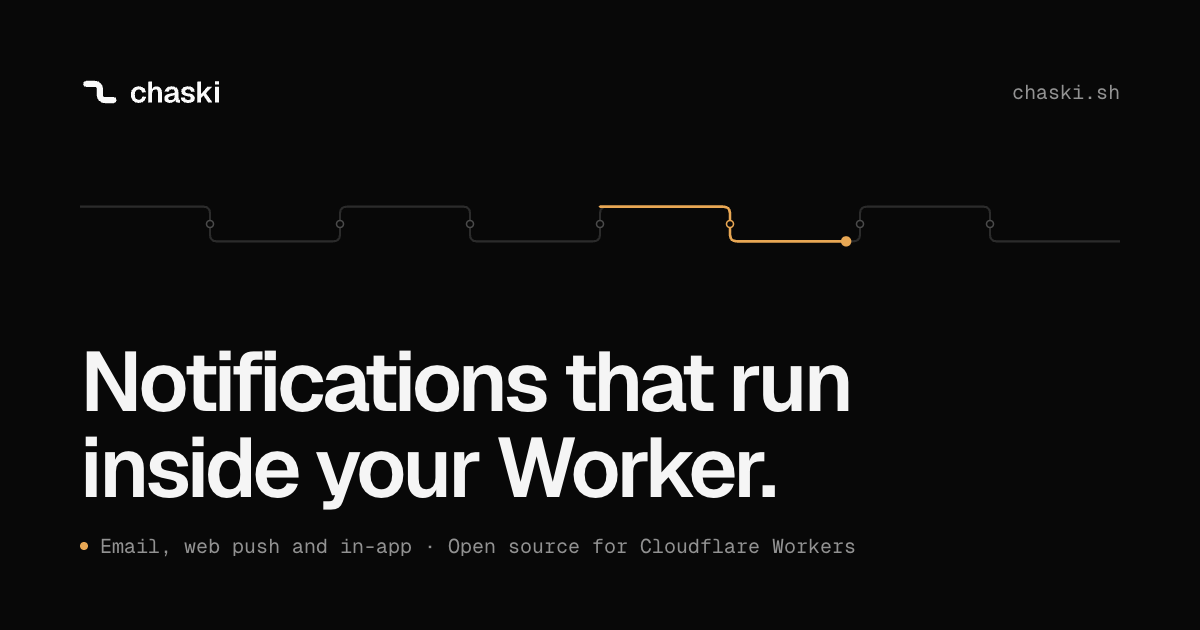
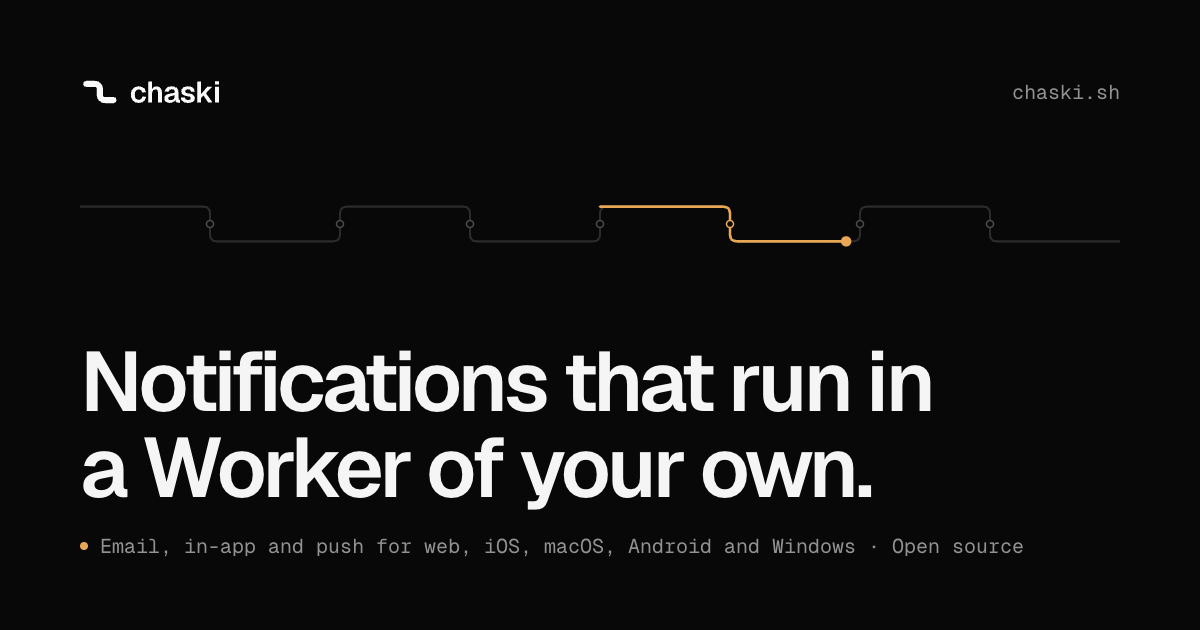
Show how Chaski runs as its own Worker on the landing (#42)

diff --git a/site/src/components/landing/features.tsx b/site/src/components/landing/features.tsx
@@ -1,6 +1,6 @@
 import { Link } from '@tanstack/react-router';
 import type { ReactNode } from 'react';
-import { ArrowRightIcon, BellIcon, GlobeIcon, MailIcon, PhoneIcon } from '../icons';
+import { ArrowRightIcon, BellIcon, GlobeIcon, MailIcon, MonitorIcon, PhoneIcon } from '../icons';
 import { Code, Liquid } from './code';
 import { rpcSample } from './samples';
 import { StatusPill } from './status';
@@ -80,6 +80,20 @@ const CHANNELS = [
     time: '410 ms',
   },
   {
+    icon: <PhoneIcon size={20} strokeWidth={1.5} />,
+    name: 'FCM',
+    via: 'Android',
+    status: 'Sent',
+    time: '450 ms',
+  },
+  {
+    icon: <MonitorIcon size={20} strokeWidth={1.5} />,
+    name: 'WNS',
+    via: 'Windows',
+    status: 'Sent',
+    time: '520 ms',
+  },
+  {
     icon: <BellIcon size={20} strokeWidth={1.5} />,
     name: 'In-app',
     via: 'A live feed per user',
@@ -88,9 +102,25 @@ const CHANNELS = [
   },
 ];
 
+// Rules between the tiles: two columns on phones, three from `sm` up.
+const PHONE_RULES = ['pr-5', 'border-l pl-5'];
+const WIDE_RULES = [
+  'sm:border-l-0 sm:pl-0 sm:pr-5',
+  'sm:border-l sm:pl-5 sm:pr-5',
+  'sm:border-l sm:pl-5 sm:pr-0',
+];
+const LIFT_DELAYS = [
+  '',
+  'delay-[40ms]',
+  'delay-[80ms]',
+  'delay-[120ms]',
+  'delay-[160ms]',
+  'delay-[200ms]',
+];
+
 const ChannelsDetail = () => (
   <ul
-    className="-mt-2 grid grid-cols-2 border-b border-border sm:grid-cols-4"
+    className="-mt-2 grid grid-cols-2 border-b border-border sm:grid-cols-3"
     aria-label="Channels"
   >
     {CHANNELS.map((channel, index) => (
@@ -98,14 +128,14 @@ const ChannelsDetail = () => (
         key={channel.name}
         className={[
           'flex flex-col gap-3.5 border-border py-6',
-          index % 2 === 1 ? 'border-l pl-5' : 'pr-5',
+          PHONE_RULES[index % 2],
+          WIDE_RULES[index % 3],
           index >= 2 ? 'max-sm:border-t' : '',
-          index === 2 ? 'sm:border-l sm:pl-5' : '',
-          index === 1 || index === 2 ? 'sm:pr-5' : '',
+          index >= 3 ? 'sm:border-t' : '',
         ].join(' ')}
       >
         <span
-          className={`w-max motion-safe:transition-transform motion-safe:duration-300 motion-safe:group-hover:-translate-y-0.5 ${['', 'delay-[40ms]', 'delay-[80ms]', 'delay-[120ms]'][index]}`}
+          className={`w-max motion-safe:transition-transform motion-safe:duration-300 motion-safe:group-hover:-translate-y-0.5 ${LIFT_DELAYS[index]}`}
         >
           {channel.icon}
         </span>
@@ -319,7 +349,7 @@ export const Features = () => (
 
     <div className="grid gap-px overflow-hidden rounded-2xl border border-border bg-border md:grid-cols-2 lg:grid-cols-3">
       <Cell
-        title="Four channels, one call"
+        title="Six channels, one call"
         guide="channels"
         text="Each type picks its channels. Chaski renders every one, queues it and records what happened, per recipient."
         className="md:col-span-2"
@@ -335,7 +365,7 @@ export const Features = () => (
       <Cell
         title="Liquid templates"
         guide="templates"
-        text="One per channel, edited in the dashboard with a live preview. Export them as JSON and import them anywhere."
+        text="One per type, with content for each channel, edited in the dashboard with a live preview. Keep them in a file and load them into any environment."
         delay="[--reveal-delay:70ms]"
       >
         <TemplateDetail />

diff --git a/site/src/components/landing/how-it-works.tsx b/site/src/components/landing/how-it-works.tsx
@@ -1,26 +1,26 @@
 import { type KeyboardEvent, useEffect, useRef, useState } from 'react';
 import { useInViewAttribute, useMotionAllowed } from '~/lib/motion';
 import { highlight } from './code';
-import { billingSample, indexSample, wranglerSample } from './samples';
+import { appSample, deploySample, initSample } from './samples';
 
 const FILES = [
-  { id: 'wrangler', name: 'chaski/wrangler.jsonc', code: wranglerSample },
-  { id: 'index', name: 'chaski/src/index.ts', code: indexSample },
-  { id: 'billing', name: 'app/src/billing.ts', code: billingSample },
+  { id: 'init', name: 'npx chaskijs init', code: initSample },
+  { id: 'deploy', name: 'npx chaskijs deploy', code: deploySample },
+  { id: 'app', name: 'app/src/index.ts', code: appSample },
 ];
 
 const STEPS = [
   {
-    title: 'Declare the bindings',
-    text: 'A database and a queue to start. Add the rest as you need it.',
+    title: 'Create it',
+    text: 'One command writes the project, three files in a folder of your repository or in a new one, ready to run locally.',
   },
   {
     title: 'Deploy it',
-    text: 'One line re-exports the Worker. Its dashboard opens for your team only, and the channels are set up there.',
+    text: 'It creates a database and a queue on your Cloudflare account, and deploys. Its dashboard opens for your team only, and the channels are set up there.',
   },
   {
-    title: 'Send from your app',
-    text: 'Bind your app to it, and one call fans out to email, push and the in-app feed, with retries.',
+    title: 'Connect your app',
+    text: 'Bind your app to it and mount the routes your frontend reads the feed through. Then one call fans out to email, push and the in-app feed, with retries.',
   },
 ];
 
@@ -44,6 +44,24 @@ export const HowItWorks = () => {
   useEffect(() => {
     if (motion) setActive(0);
   }, [motion]);
+
+  // On a phone the tab names overflow their bar. Scroll the bar alone, never the page, so the open
+  // tab reads whole while the steps above advance.
+  useEffect(() => {
+    const tab = tabs.current[active];
+    const bar = tab?.parentElement;
+    if (!tab || !bar) return;
+    const inset = Number.parseFloat(getComputedStyle(bar).paddingLeft);
+    const box = bar.getBoundingClientRect();
+    const { left, right } = tab.getBoundingClientRect();
+    const by =
+      left < box.left + inset
+        ? left - box.left - inset
+        : right > box.right - inset
+          ? right - box.right + inset
+          : 0;
+    if (by) bar.scrollBy({ left: by, behavior: motion ? 'smooth' : 'auto' });
+  }, [active, motion]);
 
   const choose = (index: number) => {
     setStopped(true);
@@ -72,7 +90,7 @@ export const HowItWorks = () => {
           Deploy it next to your app.
         </h2>
         <p className="lede">
-          Chaski is a Worker of its own, on your account. A project of three files deploys it, and
+          Chaski is a Worker of its own, on your account. Two commands create and deploy it, and
           your app sends to it from anywhere in its code.
         </p>
         <ol className="flex flex-col pt-5">

diff --git a/site/src/components/landing/samples.ts b/site/src/components/landing/samples.ts
@@ -4,55 +4,57 @@ export const sendSample = `await env.CHASKI.send({
   payload: { amount: '$15.00' },
 });`;
 
-export const wranglerSample = `{
-  "name": "chaski",
-  "main": "src/index.ts",
-  "d1_databases": [
-    {
-      "binding": "CHASKI_DB",
-      "database_name": "chaski",
-      "database_id": "<printed by wrangler d1 create>",
-      // Chaski's tables come from the package.
-      "migrations_dir": "node_modules/chaskijs/migrations"
-    }
-  ],
-  "queues": {
-    "producers": [
-      { "binding": "CHASKI_QUEUE", "queue": "chaski-deliveries" }
-    ],
-    "consumers": [
-      {
-        "queue": "chaski-deliveries",
-        "max_retries": 5,
-        "dead_letter_queue": "chaski-deliveries-dlq"
-      }
-    ]
-  },
-  "send_email": [{ "name": "CHASKI_EMAIL" }]
-}`;
+export const initSample = `$ npx chaskijs init
 
-export const indexSample = `// The whole Chaski Worker: the dashboard, the queue
-// consumer and the API your app calls.
-export {
-  ChaskiEntrypoint,
-  ChaskiEvents,
-  ChaskiFeed,
-  ChaskiScheduler,
-  default,
-} from 'chaskijs/worker';`;
+? Where should Chaski live?
+› A folder of this repository
+  A new repository
 
-export const billingSample = `// Bound to Chaski in wrangler.jsonc:
+✓ Wrote chaski/package.json
+✓ Wrote chaski/wrangler.jsonc
+✓ Wrote chaski/src/index.ts
+✓ Applied the migrations locally
+
+Next: npx chaskijs deploy`;
+
+export const deploySample = `$ npx chaskijs deploy
+
+✓ Created the database
+✓ Created the queues
+✓ Applied the migrations
+✓ Deployed chaski
+
+Your dashboard is at
+https://chaski.acme.workers.dev
+Set up the channels there.`;
+
+export const appSample = `// Bound in wrangler.jsonc:
 // { "binding": "CHASKI", "service": "chaski",
 //   "entrypoint": "ChaskiEntrypoint" }
-export const sendReceipt = async (env: Env, user: User, payment: Payment) => {
-  await env.CHASKI.send({
+import { Hono } from 'hono';
+import { userRoutes } from 'chaskijs';
+
+const app = new Hono<{ Bindings: Env }>();
+
+// The signed-in user's feed, devices and preferences.
+app.route(
+  '/me/notifications',
+  userRoutes({
+    chaski: (c) => c.env.CHASKI,
+    identify: (c) => currentUserId(c),
+  }),
+);
+
+app.post('/payments', async (c) => {
+  const payment = await charge(c);
+  await c.env.CHASKI.send({
     type: 'payment_received',
-    recipient: { id: user.id, email: user.email, name: user.name },
+    recipient: { id: payment.userId },
     payload: { amount: payment.amount },
-    // A retried request with the same key sends only once.
     idempotencyKey: \`payment:\${payment.id}\`,
   });
-};`;
+  return c.json(payment);
+});`;
 
 export const rpcSample = `await env.CHASKI.send({
   type: 'order_shipped',

diff --git a/site/src/components/landing/browser.tsx b/site/src/components/landing/browser.tsx
@@ -18,6 +18,7 @@ const FEED = [
 ];
 
 const PACKAGES = [
+  { name: 'chaskijs', text: 'userRoutes(), the routes your app mounts' },
   { name: 'chaskijs/client', text: 'The feed, unread count, push and preferences' },
   { name: 'chaskijs/sw', text: 'Shows web push in your service worker' },
   { name: 'chaskijs/react', text: 'useFeed, useUnreadCount, usePush and usePreferences' },
@@ -115,11 +116,11 @@ export const Browser = () => (
     <div data-reveal="" className="flex flex-col gap-5 [--reveal-delay:70ms]">
       <p className="kicker">In the browser</p>
       <h2 id="browser-title" className="h2">
-        The bell comes with it.
+        Draw your bell. Chaski keeps it live.
       </h2>
       <p className="lede">
-        Your frontend talks to the routes your app mounts, as the signed-in user. The feed updates
-        over a WebSocket the moment a send lands.
+        Your frontend reads the signed-in user’s feed through the routes your app mounts, and the
+        hooks update the bell over a WebSocket the moment a send lands.
       </p>
       <dl className="mt-4 flex flex-col border-t border-border">
         {PACKAGES.map((entry) => (

diff --git a/site/src/routes/llms[.]txt.ts b/site/src/routes/llms[.]txt.ts
@@ -13,7 +13,7 @@ const entry = (title: string, url: string, notes?: string) =>
 const llms = [
   '# Chaski',
   '',
-  '> Notification infrastructure for Cloudflare Workers, dashboard included. Chaski runs as a Worker of its own on your Cloudflare account, one per environment, and your app calls it over a service binding. It sends email, web push, iOS, macOS, Android and Windows push and in-app notifications, with templates, preferences, scheduling, retries and a dashboard. Open source under the MIT license, published on npm as `chaskijs`.',
+  '> Notification infrastructure that runs as a Worker of its own on your Cloudflare account, one per environment, dashboard included. Your app sends to it over a service binding and mounts `userRoutes()` from `chaskijs`, so its frontend reads the signed-in user’s feed, devices and preferences. It sends email, web push, iOS, macOS, Android and Windows push and in-app notifications, with templates, preferences, scheduling and retries. Open source under the MIT license, published on npm as `chaskijs`.',
   '',
   `To set Chaski up in a project, follow the agent skill at ${skillUrl}.`,
   ...NAV.flatMap((group) => [

diff --git a/site/src/components/landing/hero.tsx b/site/src/components/landing/hero.tsx
@@ -110,9 +110,9 @@ export const Hero = () => (
         Notifications that run in a Worker of your own.
       </h1>
       <p className="hero-in max-w-[600px] text-[17px] leading-7 text-pretty text-muted-foreground [animation-delay:160ms] sm:text-[19px] sm:leading-[30px]">
-        Email, web push and in-app notifications with templates, scheduling, retries and a
-        dashboard. Deploy Chaski next to your app, on your own Cloudflare account, and send with one
-        call.
+        Email, in-app and push notifications for the web, iOS, macOS, Android and Windows, with
+        templates, scheduling, retries and a dashboard. Deploy Chaski next to your app, on your own
+        Cloudflare account, and send with one call.
       </p>
       <div className="hero-in flex flex-wrap items-center gap-3 pt-2 [animation-delay:240ms]">
         <DocsButton />

diff --git a/site/src/components/landing/code.tsx b/site/src/components/landing/code.tsx
@@ -3,11 +3,11 @@ import type { ReactNode } from 'react';
 const KEYWORDS = new Set(['import', 'from', 'export', 'const', 'await', 'async', 'default']);
 
 const TOKEN =
-  /(\/\/[^\n]*)|('(?:[^'\\\n]|\\.)*'|"(?:[^"\\\n]|\\.)*"|`(?:[^`\\]|\\.)*`)|\b([a-z]+)\b/g;
+  /((?<!:)\/\/[^\n]*)|('(?:[^'\\\n]|\\.)*'|"(?:[^"\\\n]|\\.)*"|`(?:[^`\\]|\\.)*`)|\b([a-z]+)\b/g;
 
 /**
- * Colors the landing's TypeScript and JSONC samples with the classes the docs' Shiki theme emits,
- * without shipping Shiki to the page: comments, strings and a handful of keywords are enough.
+ * Colors the landing's TypeScript, JSONC and terminal samples with the classes the docs' Shiki theme
+ * emits, without shipping Shiki: comments, strings and a few keywords are enough. `://` is a URL.
  */
 export const highlight = (code: string): ReactNode[] => {
   const nodes: ReactNode[] = [];

diff --git a/site/src/components/landing/agent.tsx b/site/src/components/landing/agent.tsx
@@ -9,6 +9,7 @@ const STEPS = [
   { text: 'Created the Chaski Worker next to it', meta: 'chaski/' },
   { text: 'Bound the app and mounted the user routes', meta: '/me/notifications' },
   { text: 'Created the tables locally', meta: '--local' },
+  { text: 'Set up the channels in the local dashboard', meta: 'Channels' },
   { text: 'Sent a welcome email locally', meta: 'delivered', metaClass: 'text-success' },
 ];
 
@@ -23,6 +24,7 @@ const ROW_DELAYS = [
   '[animation-delay:1400ms]',
   '[animation-delay:1700ms]',
   '[animation-delay:2000ms]',
+  '[animation-delay:2300ms]',
 ];
 const MARK_DELAYS = [
   '[animation-delay:350ms]',
@@ -32,6 +34,7 @@ const MARK_DELAYS = [
   '[animation-delay:1550ms]',
   '[animation-delay:1850ms]',
   '[animation-delay:2150ms]',
+  '[animation-delay:2450ms]',
 ];
 
 const ALSO_TRY = [

diff --git a/site/src/components/actions.tsx b/site/src/components/actions.tsx
@@ -4,7 +4,7 @@ import { setupPrompt } from '~/lib/site';
 import { CopyStatus, useCopy } from './copy';
 import { ArrowRightIcon, CheckIcon, CopyIcon } from './icons';
 
-const INSTALL = 'npm install chaskijs';
+const INSTALL = 'npx chaskijs init';
 
 const WAYS = ['npm', 'agent'] as const;
 type Way = (typeof WAYS)[number];
@@ -55,7 +55,7 @@ const CopyWay = ({ way }: { way: Way }) => {
   );
 };
 
-/** The two ways in: install the package, or copy the prompt that hands the setup to an agent. */
+/** The two ways in: create the project with one command, or hand the setup to an agent. */
 export const InstallChip = ({ initial }: { initial: Way }) => {
   const id = useId();
   const tabs = useRef<Array<HTMLButtonElement | null>>([]);

diff --git a/site/src/lib/site.ts b/site/src/lib/site.ts
@@ -16,4 +16,4 @@ export const editUrl = (path: string) => `${repo}/blob/main/site/content/docs/${
 export const skillUrl = `${site.url}/skill/SKILL.md`;
 
 /** What every "copy the prompt" button copies, and what the landing shows pasted. */
-export const setupPrompt = `Set up Chaski, notifications for Cloudflare Workers, in this project. Follow ${skillUrl} step by step, and ask me before anything that touches my Cloudflare account.`;
+export const setupPrompt = `Set up Chaski for this app: notifications that run as a Worker of their own, next to it. Follow ${skillUrl} step by step, and ask me before anything that touches my Cloudflare account.`;

diff --git a/site/src/components/landing/closing.tsx b/site/src/components/landing/closing.tsx
@@ -15,8 +15,9 @@ export const Closing = () => (
       Deploy it this afternoon.
     </h2>
     <p className="lede max-w-[520px]">
-      Free and open source under the MIT license. Install it and follow the guide, or hand it to
-      your agent. Either way, your first notification goes out from a Worker of your own.
+      Free and open source under the MIT license. Create it with one command and follow the guide,
+      or hand it to your agent. Either way, your first notification goes out from a Worker of your
+      own.
     </p>
     <div className="flex flex-wrap items-center justify-center gap-3 pt-5">
       <DocsButton />

diff --git a/site/src/routes/index.tsx b/site/src/routes/index.tsx
@@ -47,7 +47,7 @@ export const Route = createFileRoute('/')({
     seo({
       title: 'Chaski · Notifications that run in a Worker of your own',
       description:
-        'Open-source notification infrastructure for Cloudflare Workers. Email, web push and in-app notifications with templates, scheduling, retries and a dashboard, on your own Cloudflare account.',
+        'Open-source notifications that run as a Worker of their own on your Cloudflare account: email, in-app and push for the web, iOS, macOS, Android and Windows, with templates, retries and a dashboard.',
       path: '/',
     }),
   component: Landing,
